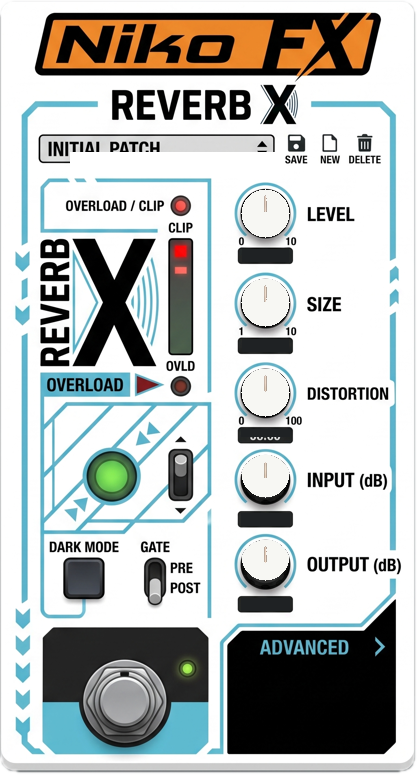
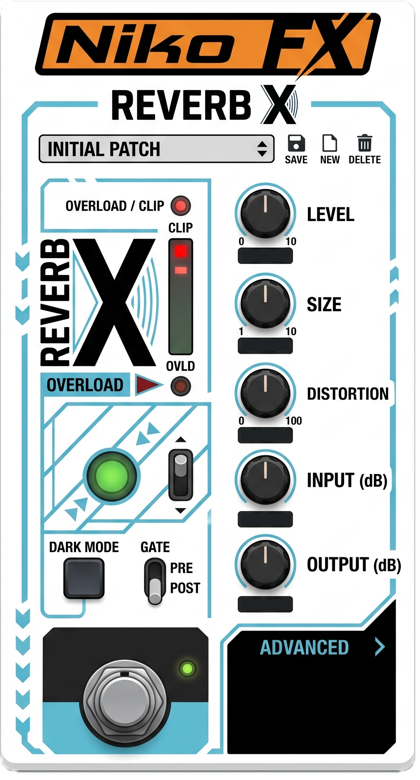
Polish faceplate control hit-targets and rotating knob sprite
Knob hotspot now crops and rotates the faceplate knob art (with an opaque
disc hiding the static pointer while dragging); preset box, toggles, and
pressure pad bounds re-measured to the faceplate asset; gate overlay only
repaints the PRE state since POST is the baked default.

diff --git a/source/ui/PedalKnob.h b/source/ui/PedalKnob.h
@@ -9,6 +9,7 @@
 namespace sendbloom::ui
 {
 
+/** Rotary hotspot: covers the faceplate knob, then paints a rotating crop of it. */
 class PedalKnob : public juce::Component
 {
 public:
@@ -38,17 +39,13 @@ public:
     void paint (juce::Graphics& g) override
     {
         paintKnob (g);
-
-        const auto valueBounds = juce::Rectangle<int> (2, kKnobSize + 5, 52, 15);
-        g.setColour (juce::Colours::white.withAlpha (0.92f));
-        g.setFont (juce::FontOptions (13.0f, juce::Font::bold));
-        g.drawText (getDisplayValue(), valueBounds, juce::Justification::centred, false);
+        paintValue (g);
     }
 
     void paintOverChildren (juce::Graphics& g) override
     {
-        // Slider child paints after us; redraw the rotating knob on top so it stays visible.
         paintKnob (g);
+        paintValue (g);
     }
 
     void resized() override
@@ -56,17 +53,18 @@ public:
         slider.setBounds (0, 0, kKnobSize, kKnobSize);
     }
 
-    void setLabelColour (juce::Colour)
-    {
-    }
-
-    void setRangeText (juce::String, juce::String)
-    {
-    }
+    void setLabelColour (juce::Colour) {}
+    void setRangeText (juce::String, juce::String) {}
 
     void setValueFormatter (std::function<juce::String (double)> formatter)
     {
         valueFormatter = std::move (formatter);
+        repaint();
+    }
+
+    void setValueBounds (juce::Rectangle<int> boundsInComponent)
+    {
+        valueBounds = boundsInComponent;
         repaint();
     }
 
@@ -88,18 +86,36 @@ private:
 
         const auto centre = juce::Point<float> (static_cast<float> (kKnobSize) * 0.5f,
                                                 static_cast<float> (kKnobSize) * 0.5f);
-        const auto params = slider.getRotaryParameters();
-        const auto t = static_cast<float> (slider.valueToProportionOfLength (slider.getValue()));
-        const auto angle = params.startAngleRadians
-                         + t * (params.endAngleRadians - params.startAngleRadians);
-        // Keep art inside the faceplate cyan ring (~48px body inside a 64px hit target).
-        const auto dest = juce::Rectangle<float> (static_cast<float> (kKnobArtSize),
-                                                  static_cast<float> (kKnobArtSize))
-                              .withCentre (centre);
+        // Slightly inside the cyan ring so soft edges sit on the faceplate gap, not over it.
+        const auto coverRadius = 23.0f;
 
-        juce::Graphics::ScopedSaveState state (g);
-        g.addTransform (juce::AffineTransform::rotation (angle, centre.x, centre.y));
-        g.drawImage (knobImage, dest);
+        {
+            juce::Graphics::ScopedSaveState clip (g);
+            g.reduceClipRegion (juce::Rectangle<int> (0, 0, kKnobSize, kKnobSize));
+
+            // Opaque disc under the sprite hides the static faceplate pointer while dragging.
+            g.setColour (juce::Colour (0xff303030));
+            g.fillEllipse (centre.x - coverRadius, centre.y - coverRadius,
+                           coverRadius * 2.0f, coverRadius * 2.0f);
+
+            const auto params = slider.getRotaryParameters();
+            const auto t = static_cast<float> (slider.valueToProportionOfLength (slider.getValue()));
+            const auto angle = params.startAngleRadians
+                             + t * (params.endAngleRadians - params.startAngleRadians);
+            const auto dest = juce::Rectangle<float> (static_cast<float> (kKnobSize),
+                                                      static_cast<float> (kKnobSize));
+
+            g.addTransform (juce::AffineTransform::rotation (angle, centre.x, centre.y));
+            g.setImageResamplingQuality (juce::Graphics::highResamplingQuality);
+            g.drawImage (knobImage, dest, juce::RectanglePlacement::centred, false);
+        }
+    }
+
+    void paintValue (juce::Graphics& g)
+    {
+        g.setColour (juce::Colours::white.withAlpha (0.95f));
+        g.setFont (juce::FontOptions (12.0f, juce::Font::bold));
+        g.drawText (getDisplayValue(), valueBounds, juce::Justification::centred, false);
     }
 
     juce::String getDisplayValue() const
@@ -110,11 +126,11 @@ private:
         return juce::String (slider.getValue(), 2);
     }
 
-    static constexpr int kKnobSize = 64;
-    static constexpr int kKnobArtSize = 48;
+    static constexpr int kKnobSize = 50;
 
     juce::String labelName;
     std::function<juce::String (double)> valueFormatter;
+    juce::Rectangle<int> valueBounds { 0, 60, 51, 15 };
     TransparentControlsLookAndFeel transparentLnf;
     juce::Slider slider;
     juce::Image knobImage;

diff --git a/source/PluginEditor.cpp b/source/PluginEditor.cpp
@@ -53,13 +53,21 @@ PluginEditor::PluginEditor (PluginProcessor& p)
         presetBox.addItem (upperPresetName (i), i + 1);
 
     presetBox.setSelectedId (processorRef.getCurrentProgram() + 1, juce::dontSendNotification);
-    presetBox.onChange = [this] { presetChanged(); };
+    presetBox.onChange = [this]
+    {
+        presetChanged();
+        repaint();
+    };
     presetBox.setLookAndFeel (&transparentControls);
     presetBox.setColour (juce::ComboBox::backgroundColourId, juce::Colours::transparentBlack);
     presetBox.setColour (juce::ComboBox::outlineColourId, juce::Colours::transparentBlack);
     presetBox.setColour (juce::ComboBox::textColourId, juce::Colours::transparentBlack);
     presetBox.setColour (juce::ComboBox::arrowColourId, juce::Colours::transparentBlack);
     addAndMakeVisible (presetBox);
+    // Kill the ComboBox's internal label — faceplate owns the default glyphs.
+    for (auto* child : presetBox.getChildren())
+        if (auto* label = dynamic_cast<juce::Label*> (child))
+            label->setAlpha (0.0f);
 
     for (auto* button : { &saveButton, &newButton, &deleteButton })
     {
@@ -82,6 +90,7 @@ PluginEditor::PluginEditor (PluginProcessor& p)
 
     darkToggle.setLookAndFeel (&transparentControls);
     gateToggle.setLookAndFeel (&transparentControls);
+    darkToggle.setClickingTogglesState (true);
     addAndMakeVisible (darkToggle);
     addAndMakeVisible (gateToggle);
 
@@ -153,32 +162,49 @@ void PluginEditor::paint (juce::Graphics& g)
                              processorRef.isClipHoldActive(),
                              advancedDrawer.isExpanded());
 
-    g.setColour (juce::Colours::black);
-    g.setFont (juce::FontOptions (18.0f, juce::Font::bold));
-    g.drawFittedText (presetBox.getText(),
-                      { 72, 150, 200, 26 },
-                      juce::Justification::centredLeft,
-                      1);
+    // Default "INITIAL PATCH" is baked into the faceplate. Only redraw for other presets.
+    if (presetBox.getSelectedId() != 1)
+    {
+        g.setColour (juce::Colours::white);
+        g.fillRect (70, 148, 200, 14);
+        g.setColour (juce::Colours::black);
+        g.setFont (juce::FontOptions (12.0f, juce::Font::bold));
+        g.drawText (presetBox.getText(),
+                    76, 148, 184, 10,
+                    juce::Justification::centredLeft,
+                    false);
+    }
 }
 
 void PluginEditor::resized()
 {
     titleLabel.setBounds (0, 0, 0, 0);
-    presetBox.setBounds (64, 148, 234, 30);
+    // Invisible hit target over the faceplate preset field (name is painted by the editor).
+    presetBox.setBounds (64, 148, 210, 16);
     saveButton.setBounds (300, 148, 30, 44);
     newButton.setBounds (330, 148, 30, 44);
     deleteButton.setBounds (360, 148, 36, 44);
 
-    // Cropped knob art centres measured from cyan rings on the faceplate asset.
-    lvlKnob.setBounds (265 - 32, 213 - 32, 64, 84);
-    sizeKnob.setBounds (265 - 32, 302 - 32, 64, 84);
-    distnKnob.setBounds (265 - 32, 392 - 32, 64, 84);
-    inKnob.setBounds (265 - 32, 473 - 32, 64, 84);
-    outKnob.setBounds (265 - 32, 556 - 32, 64, 84);
+    // Exact dark-disk centres measured from the faceplate asset (50×50 art).
+    constexpr int k = 50;
+    constexpr int half = k / 2;
 
-    darkToggle.setBounds (64, 568, 50, 50);
-    gateToggle.setBounds (143, 560, 27, 64);
-    pressurePad.setBounds (90, 650, 95, 95);
+    lvlKnob.setBounds (265 - half, 213 - half, k, 76);
+    sizeKnob.setBounds (265 - half, 303 - half, k, 76);
+    distnKnob.setBounds (265 - half, 393 - half, k, 76); // dark-disk centre
+    inKnob.setBounds (265 - half, 479 - half, k, 76);
+    outKnob.setBounds (265 - half, 564 - half, k, 76);
+
+    lvlKnob.setValueBounds ({ 0, 60, 51, 15 });
+    sizeKnob.setValueBounds ({ 0, 60, 51, 15 });
+    distnKnob.setValueBounds ({ -1, 60, 52, 15 });
+    inKnob.setValueBounds ({ -1, 58, 53, 15 });
+    outKnob.setValueBounds ({ -1, 58, 53, 15 });
+
+    // Dark button on faceplate: ~64,562 .. 103,598
+    darkToggle.setBounds (64, 562, 40, 40);
+    gateToggle.setBounds (148, 568, 22, 52);
+    pressurePad.setBounds (90, 655, 95, 90);
 
     advancedButton.setBounds (250, 646, 132, 104);
     advancedDrawer.setBounds (getAdvancedBounds());

diff --git a/source/ui/PedalFaceplatePaint.cpp b/source/ui/PedalFaceplatePaint.cpp
@@ -167,32 +167,37 @@ int getChoiceIndex (juce::AudioProcessorValueTreeState& apvts, const char* id)
 
 void drawDarkPressedOverlay (juce::Graphics& g)
 {
-    const auto body = juce::Rectangle<float> (64.0f, 568.0f, 50.0f, 50.0f);
+    // Exact cover of the faceplate Dark Mode button — no offset ghost.
+    const auto body = juce::Rectangle<float> (64.0f, 562.0f, 40.0f, 40.0f);
     juce::ColourGradient fill (juce::Colour (0xff15191f), body.getX(), body.getY(),
-                               juce::Colour (0xff59616c), body.getRight(), body.getBottom(), false);
+                               juce::Colour (0xff4a515a), body.getRight(), body.getBottom(), false);
     g.setGradientFill (fill);
-    g.fillRoundedRectangle (body.translated (1.5f, 3.0f).reduced (2.0f), 6.0f);
-    g.setColour (juce::Colours::black.withAlpha (0.8f));
-    g.drawRoundedRectangle (body.translated (1.5f, 3.0f).reduced (1.0f), 6.0f, 4.0f);
-    g.setColour (juce::Colours::white.withAlpha (0.10f));
-    g.drawRoundedRectangle (body.translated (1.5f, 3.0f).reduced (8.0f), 4.0f, 1.5f);
+    g.fillRoundedRectangle (body, 5.0f);
+    g.setColour (juce::Colours::black.withAlpha (0.85f));
+    g.drawRoundedRectangle (body.reduced (1.0f), 5.0f, 3.0f);
+    g.setColour (juce::Colours::white.withAlpha (0.08f));
+    g.drawRoundedRectangle (body.reduced (7.0f), 3.0f, 1.2f);
 }
 
 void drawGatePositionOverlay (juce::Graphics& g, bool post)
 {
-    const auto slot = juce::Rectangle<float> (143.0f, 560.0f, 27.0f, 64.0f);
-    g.setColour (juce::Colour (0xff151515));
-    g.fillRoundedRectangle (slot, 8.0f);
-    g.setColour (juce::Colour (0xff444444));
-    g.drawRoundedRectangle (slot, 8.0f, 2.0f);
+    // Faceplate default art is POST; only redraw when PRE.
+    if (post)
+        return;
 
-    auto thumb = juce::Rectangle<float> (148.0f, post ? 590.0f : 567.0f, 17.0f, 26.0f);
+    const auto slot = juce::Rectangle<float> (148.0f, 568.0f, 22.0f, 52.0f);
+    g.setColour (juce::Colour (0xff151515));
+    g.fillRoundedRectangle (slot, 7.0f);
+    g.setColour (juce::Colour (0xff444444));
+    g.drawRoundedRectangle (slot, 7.0f, 1.5f);
+
+    auto thumb = juce::Rectangle<float> (151.0f, 571.0f, 16.0f, 22.0f);
     juce::ColourGradient fill (juce::Colour (0xfff3f3ee), thumb.getX(), thumb.getY(),
                                juce::Colour (0xff7c7c7c), thumb.getRight(), thumb.getBottom(), false);
     g.setGradientFill (fill);
-    g.fillRoundedRectangle (thumb, 8.0f);
+    g.fillRoundedRectangle (thumb, 7.0f);
     g.setColour (juce::Colour (0xff5a5a5a));
-    g.drawRoundedRectangle (thumb, 8.0f, 1.5f);
+    g.drawRoundedRectangle (thumb, 7.0f, 1.2f);
 }
 
 void drawFootswitchPressedOverlay (juce::Graphics& g)
@@ -253,8 +258,7 @@ void drawStateOverlays (juce::Graphics& g,
     if (dark)
         drawDarkPressedOverlay (g);
 
-    if (! postGate)
-        drawGatePositionOverlay (g, false);
+    drawGatePositionOverlay (g, postGate);
 
     if (sendConnected)
         drawFootswitchPressedOverlay (g);

diff --git a/source/ui/TransparentControls.h b/source/ui/TransparentControls.h
@@ -5,7 +5,7 @@
 namespace sendbloom::ui
 {
 
-/** LookAndFeel that leaves rotary/toggle chrome invisible so faceplate art shows through. */
+/** Invisible chrome for hotspots sitting on faceplate art. */
 class TransparentControlsLookAndFeel : public juce::LookAndFeel_V4
 {
 public:
@@ -25,10 +25,32 @@ public:
     {
     }
 
-    void drawComboBox (juce::Graphics& g, int width, int height, bool, int, int, int, int, juce::ComboBox&) override
+    void drawComboBox (juce::Graphics&, int, int, bool, int, int, int, int, juce::ComboBox&) override
     {
-        // Keep a faint hit-target outline only while open/focused is unnecessary; faceplate has the chrome.
-        juce::ignoreUnused (g, width, height);
+    }
+
+    juce::Font getComboBoxFont (juce::ComboBox&) override
+    {
+        // Match the baked faceplate preset type size (~13–14 px tall field).
+        return juce::FontOptions (13.0f, juce::Font::bold);
+    }
+
+    void positionComboBoxText (juce::ComboBox& box, juce::Label& label) override
+    {
+        label.setBounds (8, 0, juce::jmax (1, box.getWidth() - 28), box.getHeight());
+        label.setFont (getComboBoxFont (box));
+        label.setJustificationType (juce::Justification::centredLeft);
+    }
+
+    juce::Label* createComboBoxTextBox (juce::ComboBox& box) override
+    {
+        auto* label = LookAndFeel_V4::createComboBoxTextBox (box);
+        // Faceplate paints the preset name; keep the ComboBox label invisible.
+        label->setColour (juce::Label::textColourId, juce::Colours::transparentBlack);
+        label->setColour (juce::Label::backgroundColourId, juce::Colours::transparentBlack);
+        label->setColour (juce::Label::outlineColourId, juce::Colours::transparentBlack);
+        label->setInterceptsMouseClicks (false, false);
+        return label;
     }
 };
 

diff --git a/tests/PluginEditorTest.cpp b/tests/PluginEditorTest.cpp
@@ -24,7 +24,7 @@ TEST_CASE ("Faceplate control hotspots are hittable and paint knobs", "[ui][edit
     editor.resized();
 
     const juce::Point<int> levelCentre { 265, 213 };
-    const juce::Point<int> darkCentre { 89, 593 };
+    const juce::Point<int> darkCentre { 84, 582 };
     const juce::Point<int> advancedCentre { 316, 698 };
 
     auto* levelHit = editor.getComponentAt (levelCentre);